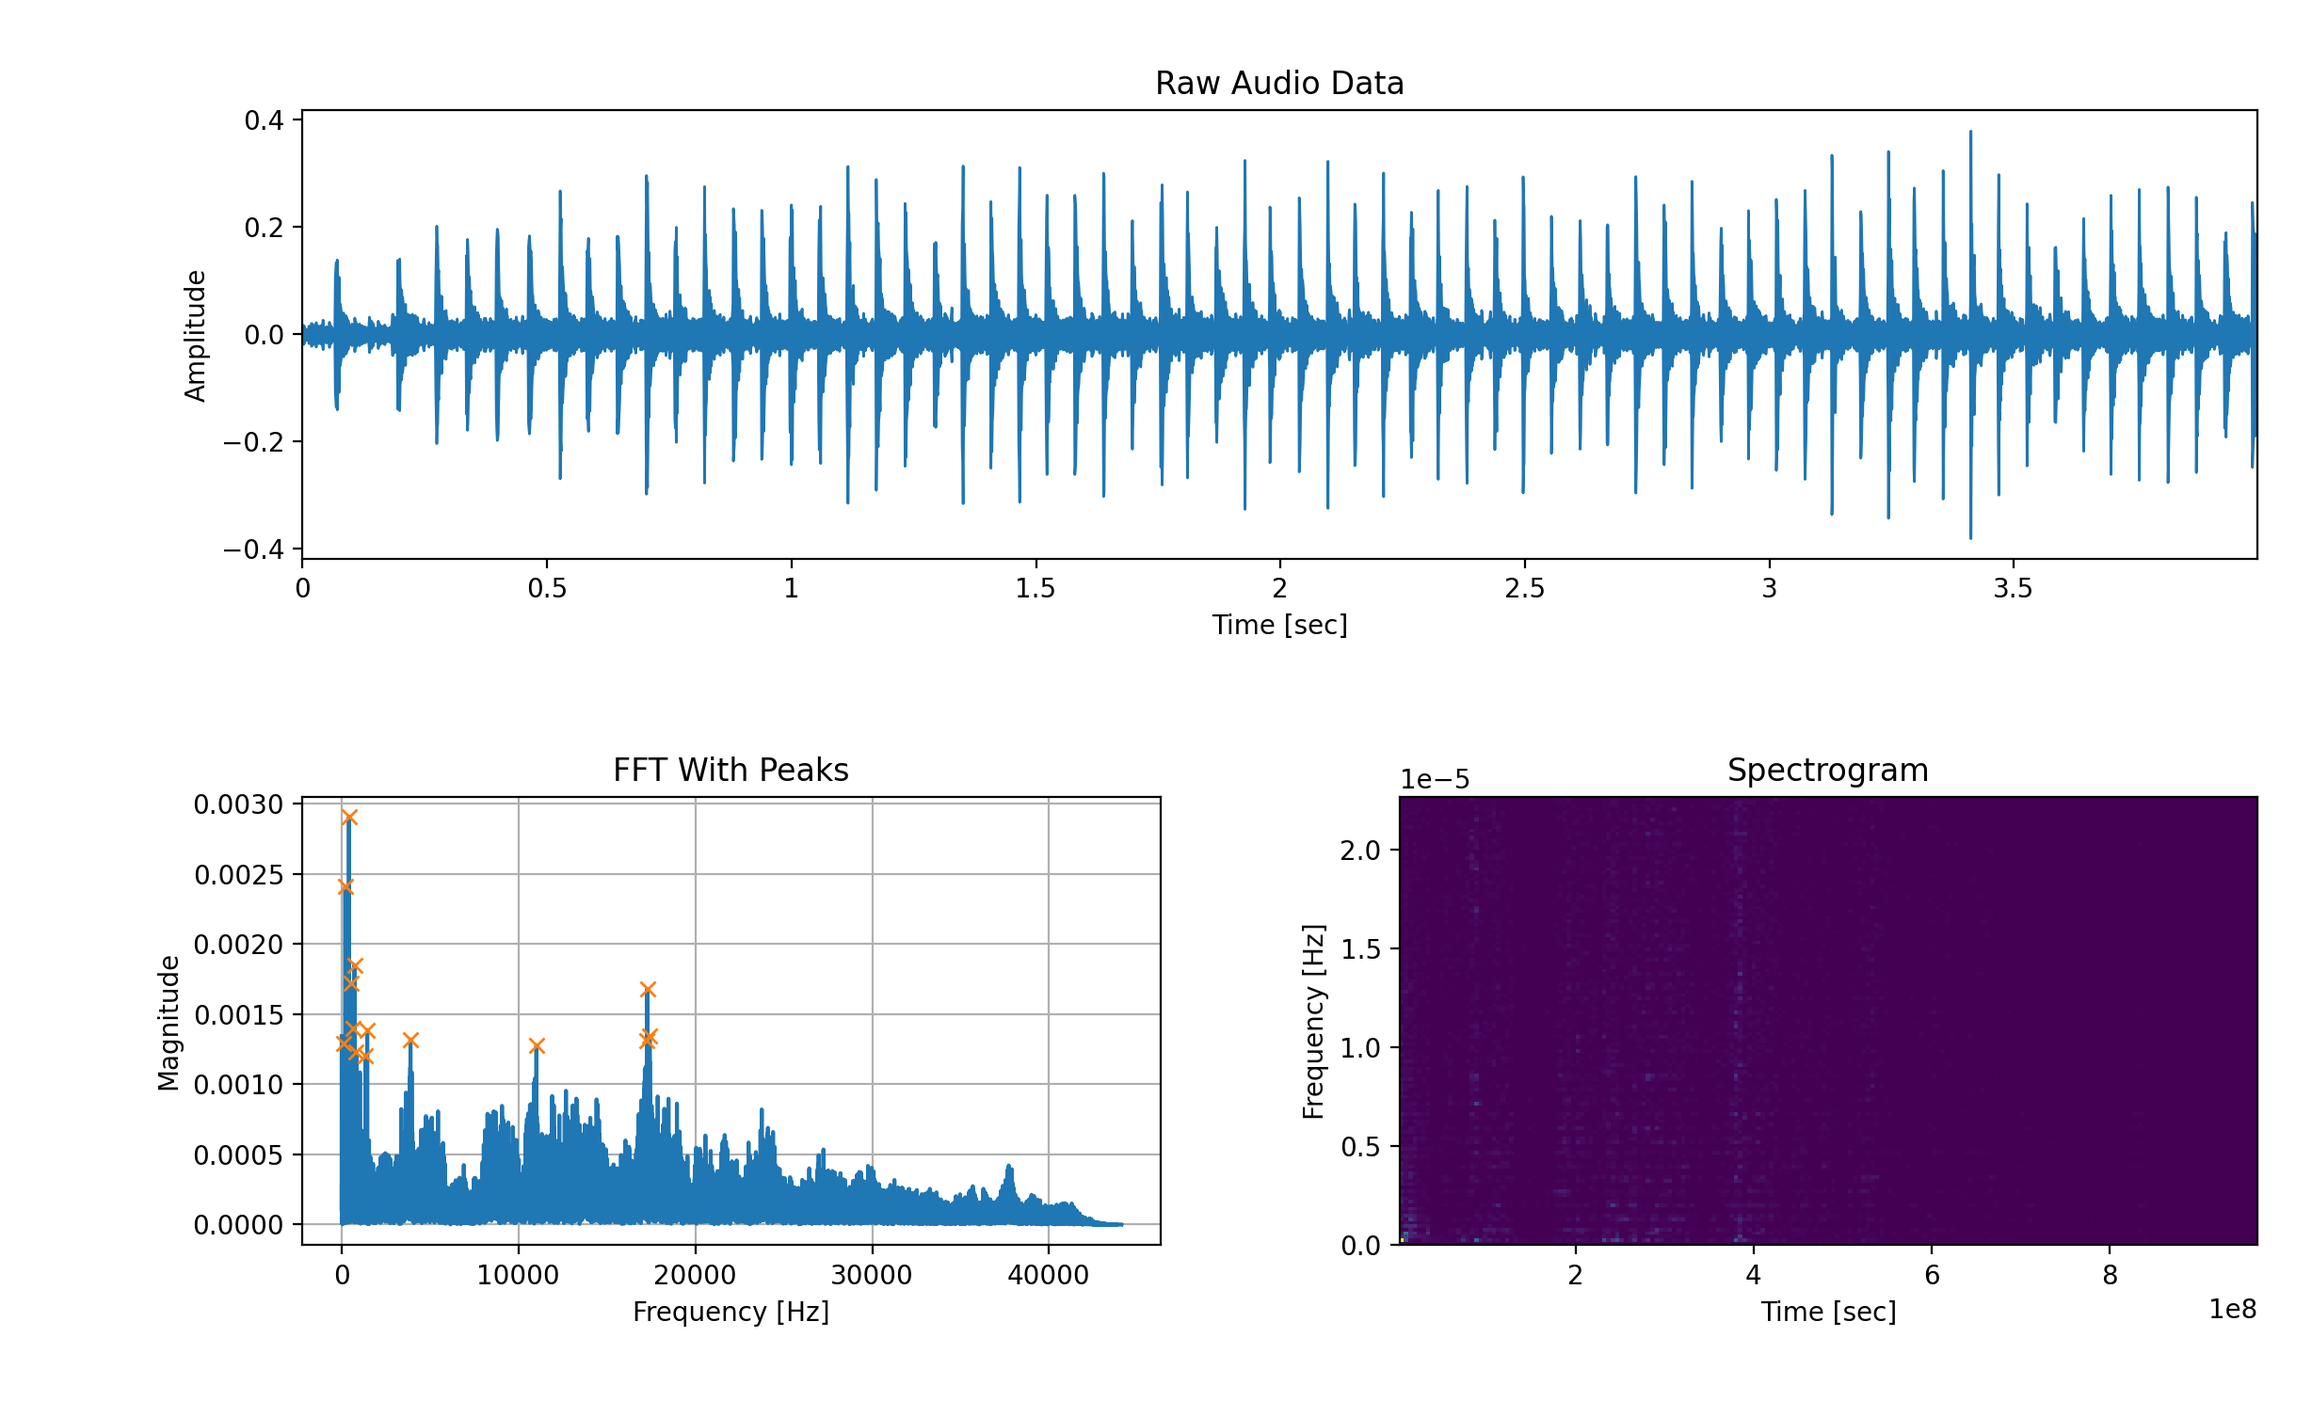
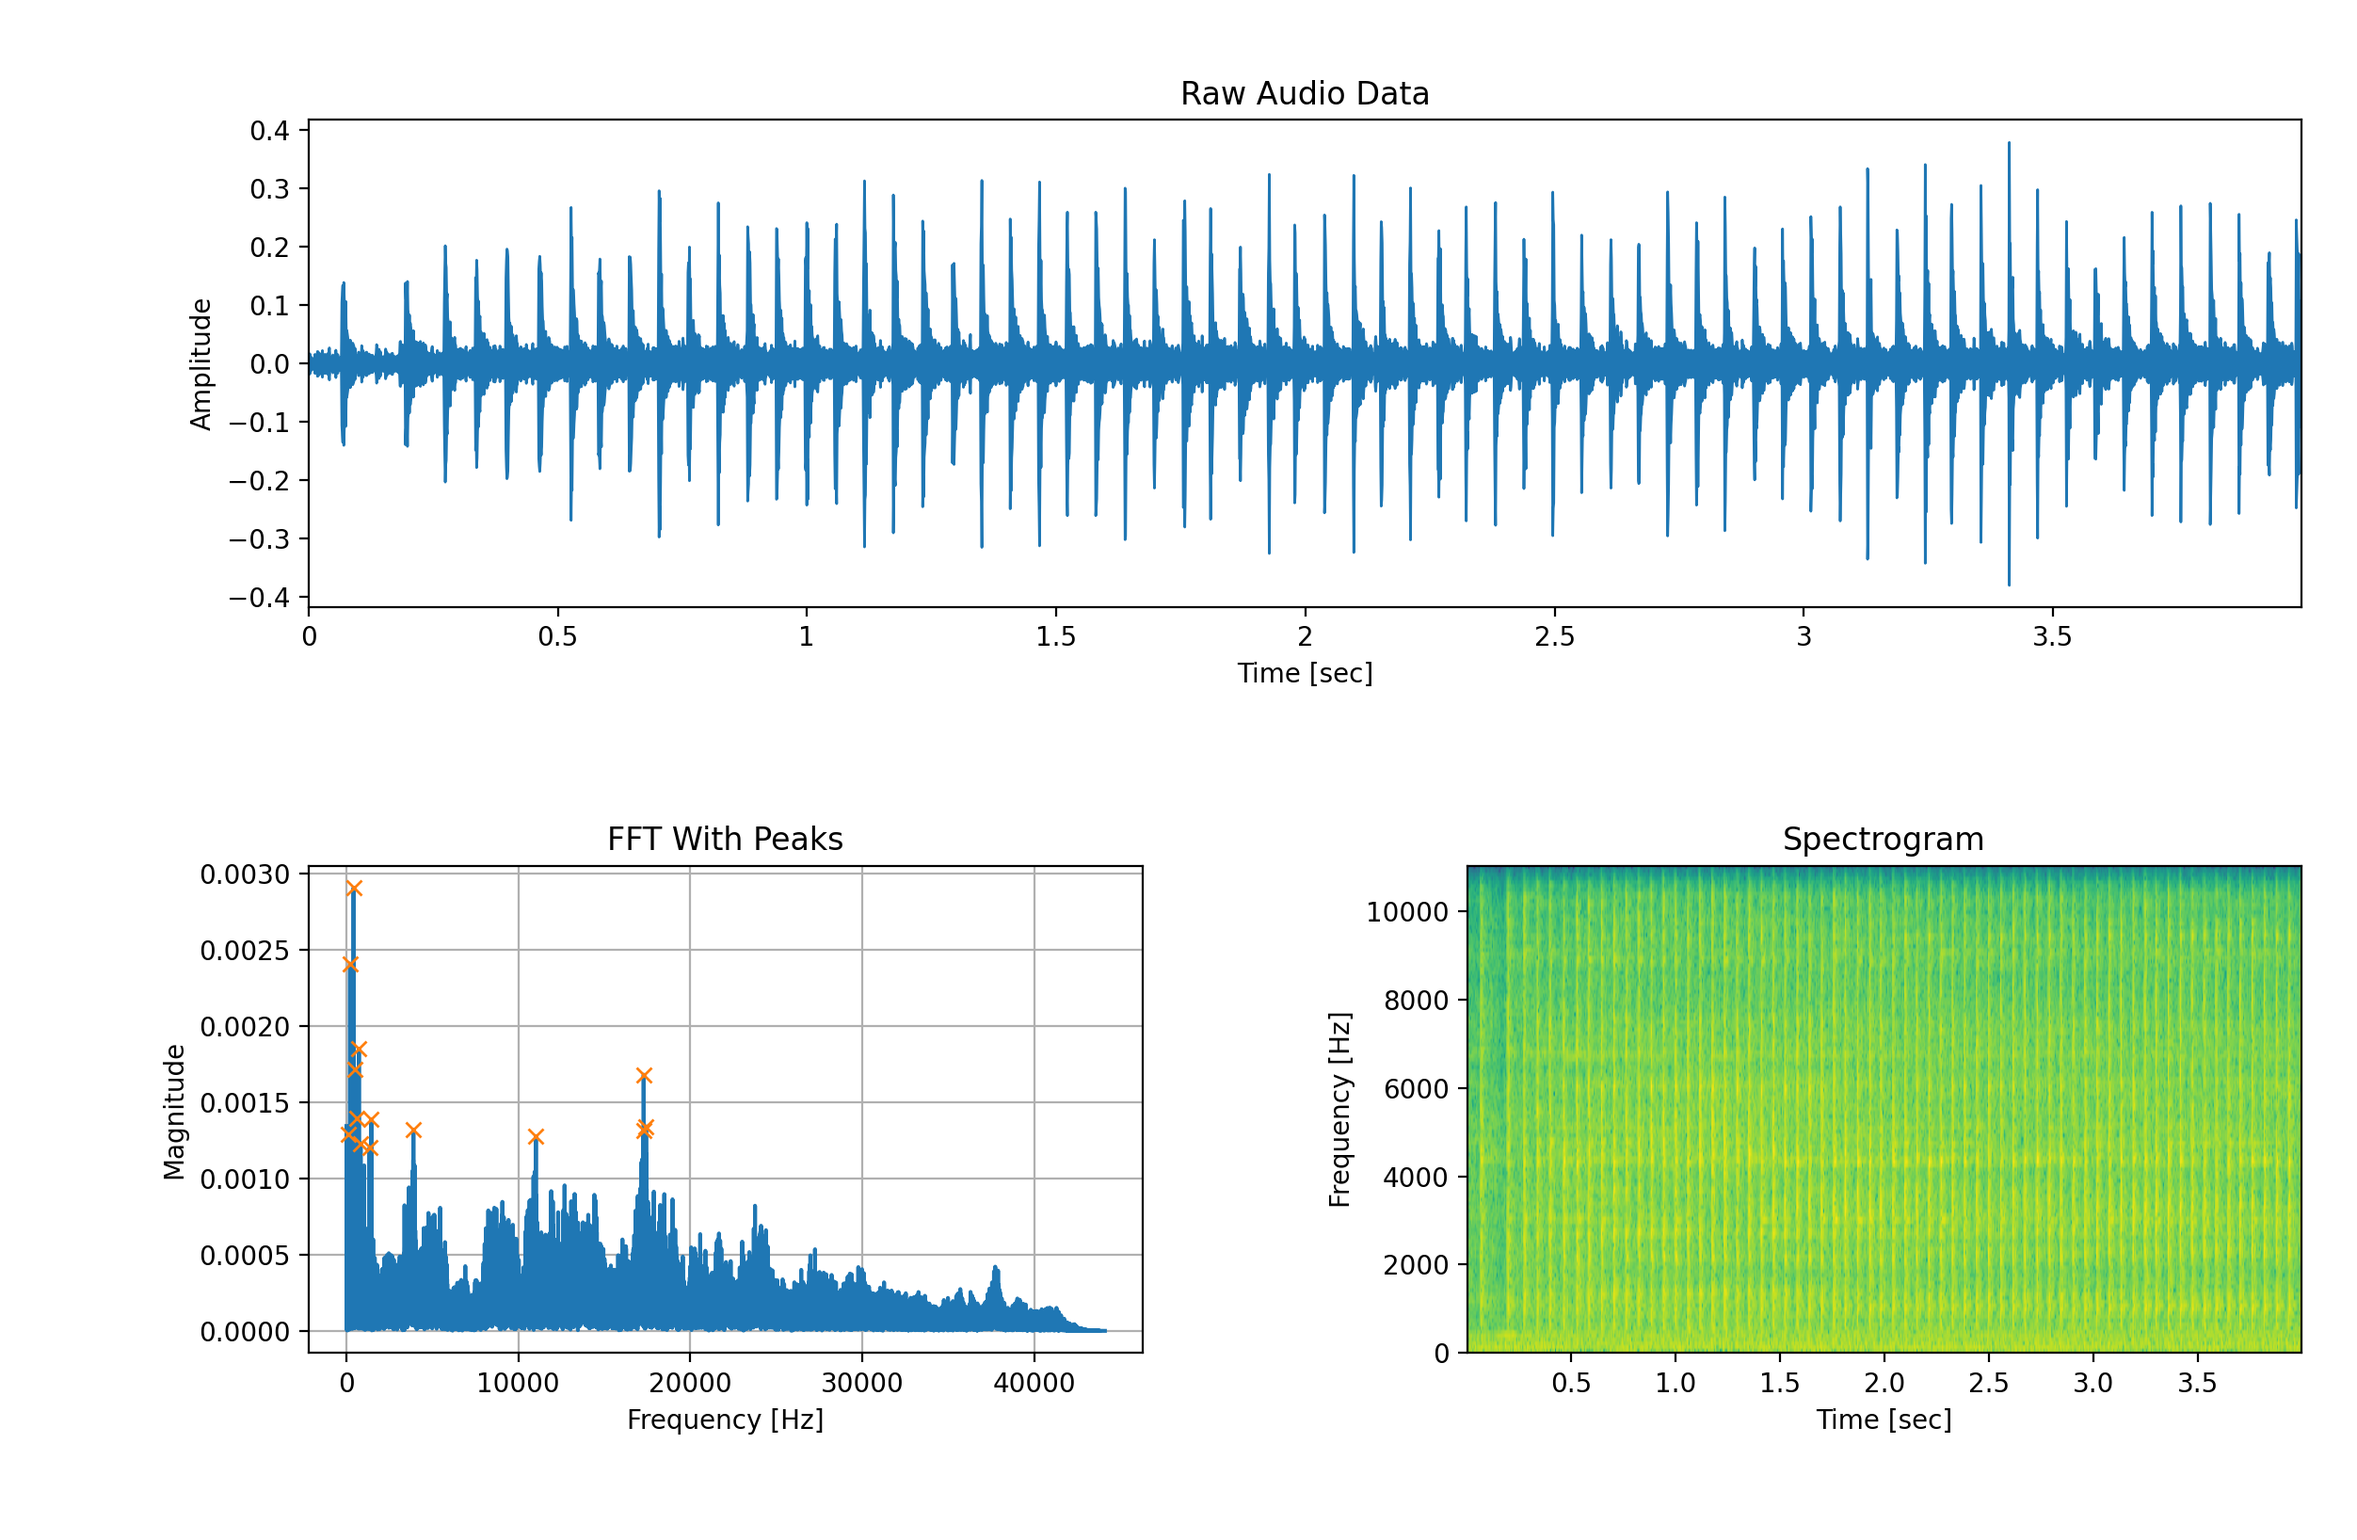
using matplotlibs specgram instead of scipy

diff --git a/07-fft-nn-audio-clf/viz.py b/07-fft-nn-audio-clf/viz.py
@@ -18,8 +18,7 @@ else:
 # Visualize the FFT of a single audio file
 def fftplot(audio: np.ndarray,
             sr: int,
-            ax: matplotlib.pyplot.Axes = None
-            ) -> None:
+            ax: matplotlib.pyplot.Axes=None) -> None:
     if ax is None:
         ax = plt
         fig, (ax0, ax1) = ax.subplots(nrows=2)
@@ -42,8 +41,11 @@ def fftplot(audio: np.ndarray,
     ax0.set_ylabel('Magnitude')
     ax0.set_title('FFT With Peaks')
 
+    '''
     frequencies, times, spectrogram = scipy.signal.spectrogram(y, T)
     ax1.pcolormesh(times, frequencies, spectrogram)
+    '''
+    ax1.specgram(audio, Fs=sr)
     ax1.set_title('Spectrogram')
     ax1.set_ylabel('Frequency [Hz]')
     ax1.set_xlabel('Time [sec]')
@@ -51,7 +53,9 @@ def fftplot(audio: np.ndarray,
 
 if __name__ == '__main__':
     for fn in filenames:
+        print('Plotting data from ', fn)
         samples, sampling_rate = librosa.load(fn)
+
         # Plot the raw data
         fig = plt.figure()
         gs = fig.add_gridspec(2, 2)
@@ -64,6 +68,7 @@ if __name__ == '__main__':
         ax0.set_ylabel('Amplitude')
         ax0.set_title('Raw Audio Data')
         
+        # Plot the fft and spectrogram
         fftplot(samples, sampling_rate, ax=[ax1, ax2])
         plt.show()
 

diff --git a/07-fft-nn-audio-clf/readme.md b/07-fft-nn-audio-clf/readme.md
@@ -17,7 +17,7 @@ This involves deciding which features are relevant, and therefor which features 
 In other words, ***feature engineering constrains the domain over which we intend to model***.
 If we can simplify the problem domain, we can simplify the model, reduce the required resources, and increase the probability that our model will fit the data well.
 Sometimes, the features of very complex dataset (which would normally require a very deep neural network on powerful hardware to fit) can be engineered to the extent that a much smaller and less computationally expensive model may be better suited.
-For example, let us look at a single audio sample:
+For example, let us look at a single audio sample (found in UrbanSound8K/audio/fold5/104998-7-7-0.wav):
 
 ![./UrbanSound8K/audio/fold5/104998-7-7-0.wav raw](./readme_images/example_raw.png)
 
